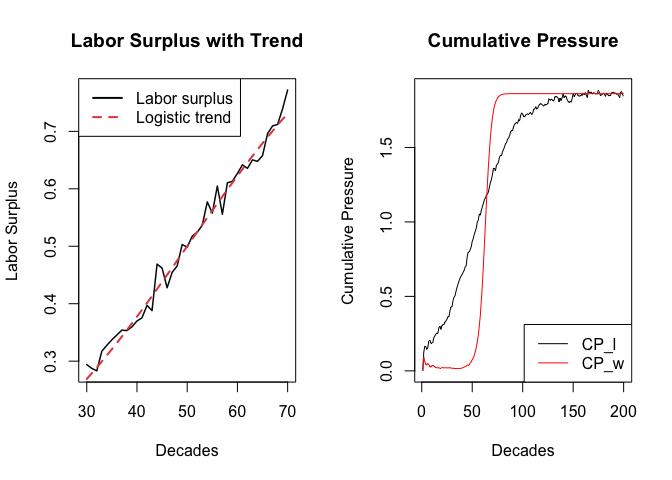
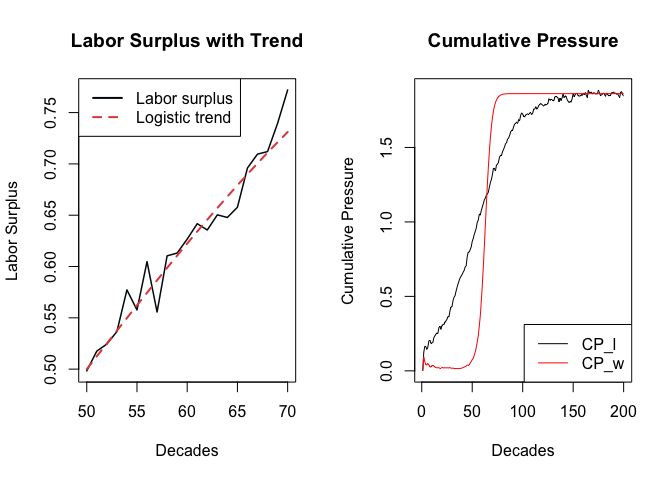
corrected SE

diff --git a/wage_lab.md b/wage_lab.md
@@ -77,29 +77,6 @@ N_pilot <- 10
 T_pilot <- 200
 ```
 
-``` r
-# labor_surplus parameters
-K_l <- 1
-r_l <- .05
-t0_l  <- 50
-A <- .2
-P <- 5
-delta_l <- .43
-```
-
-``` r
-# wage_gap parameters
-K_w <- 1
-r_base <- .03
-alpha <- .5
-t0_w <- 60
-```
-
-``` r
-# decay parameter (cumulative pressure)
-delta_c <- 0.43
-```
-
 #### Generate wage gap and labor surplus
 
 Labor surplus has to be generated before wage gap because the growth
@@ -112,6 +89,16 @@ surplus
 $$
 LaborSurplus(t) = \frac{K_l}{1+e^{-r_l(t-t_{0,l})}} + A e^{{-\delta_l}t}\cdot sin\frac{2t\pi}{P} + \epsilon
 $$
+
+``` r
+# labor_surplus parameters
+K_l <- 1
+r_l <- .05
+t0_l  <- 50
+A <- .2
+P <- 5
+delta_l <- .43
+```
 
 ``` r
 func_labor_surplus <- function(N,T) {
@@ -161,6 +148,14 @@ $$
 $$
 r_w = r_{base,w} + \alpha(LaborSurplus_{t-1})
 $$
+
+``` r
+# wage_gap parameters
+K_w <- 1
+r_base <- .03
+alpha <- .5
+t0_w <- 60
+```
 
 ``` r
 func_wage_gap <- function(N, T, lab){
@@ -216,6 +211,11 @@ $$
 $$
 CP\_W(t) = \sum^{t-1}_{k} W_{t-k}\cdot e^{-\delta_c\cdot k}
 $$
+
+``` r
+# decay parameter (cumulative pressure)
+delta_c <- 0.43
+```
 
 ``` r
 cp <- function(N, T, lab, wag) {
@@ -300,7 +300,7 @@ head(CP_w)
 
 ``` r
 n <- 70
-s <- 30
+s <- 50
 trend_l <- K_l / (1 + exp(-r_l * (s:n - t0_l)))
  
 par(mfrow = c(1,2))
@@ -333,7 +333,7 @@ demand, according as competition shapes itself between the buyers of
 labour-power, the capitalists, and the sellers of labour-power, the
 workers.”
 
-The first plot illustrates the labor surplus of Society 1 from decade 30
+The first plot illustrates the labor surplus of Society 1 from decade 50
 (pre-inflection) to decade 70 (post-inflection), with the dotted line
 representing the logistic trend. The second plot displays the cumulative
 wage gap and labor surplus across the $T_{pilot}$
@@ -726,7 +726,7 @@ data.frame (
     ## 2      Final 389 200        51356
 
 The substantial jump from 1328 to 51356 crises is an expected outcome
-rather than a anomaly; it directly reflects the roughly 50-fold scaling
+rather than a anomaly; it directly reflects the roughly 39-fold scaling
 of the number of societies from $N_{pilot} = 10$ to $N_{final} = 389$
 
 #### Parameter recovery analysis
@@ -795,6 +795,8 @@ summary(model)
     ## AIC: 16566
     ## 
     ## Number of Fisher Scoring iterations: 7
+
+pvalue interpretations
 
 **2. Custom Maximum Likelihood Estimation function**
 
@@ -901,7 +903,7 @@ acf_comparison <- function(acf_comp, title = "ACF Comparison: Final vs Pilot"){
     geom_point(position = position_dodge(width = 0.2), size = 3) + 
     geom_hline(yintercept = 0, linetype = "dashed", color = "gray") +
     theme_minimal() +
-    # FIXED: Use the `title` argument here instead of hard-coding it
+   
     labs(title = title,        
          x = "Lag", 
          y = "ACF Value") +
@@ -946,8 +948,6 @@ and $CP_l$ are expected to capture the temporal structure, the residuals
 should be uncorrelated. **The presence of correlated residuals will lead
 to biased standard errors.**
 
-acf resid : lag x N_final matrix \> average the lag
-
 ``` r
 residuals_pearson <- residuals(model, type = "pearson")
 lag_max <- min(Tl_obs/4, 20)
@@ -970,4 +970,36 @@ acf_plot(avg_resid_matrix, T_final, title = "ACF residuals")
 
 ![](wage_lab_files/figure-gfm/unnamed-chunk-41-1.png)<!-- -->
 
+Because the predictors $CP_W$ and $CP_L$ effectively explain the
+autoregressive nature of the data, the model residuals exhibit
+negligible autocorrelation, as demonstrated in the plots below.
+
 3.  Corrected Standard Errors
+
+``` r
+# naive standard errors
+naive_se <- sqrt(diag(vcov(model)))
+
+# corrected standard errors
+corrected_se <- sqrt(diag(vcovCL(model, cluster = ~society+decade, order.by = ~decade)))
+
+comparison_se <- data.frame(
+  true = c(beta0, beta1, beta2, beta3), 
+  estimated = coef(model), 
+  naive = round(naive_se, 4),
+  corrected = round(corrected_se, 4), 
+  ratio = round(corrected_se/naive_se, 3)
+)
+
+print(comparison_se)
+```
+
+    ##                true  estimated  naive corrected ratio
+    ## (Intercept) -5.2933 -5.2765871 0.1534    0.1312 0.855
+    ## CP_w         1.0000  0.9738972 0.1217    0.1116 0.917
+    ## CP_l         0.5000  0.4017216 0.1968    0.1935 0.983
+    ## CP_w:CP_l    2.0000  2.0678817 0.0988    0.1010 1.022
+
+**Since the residuals are independent, the naive standard errors are
+theoretically correct, and the corrected standard errors match them
+almost perfectly.**
